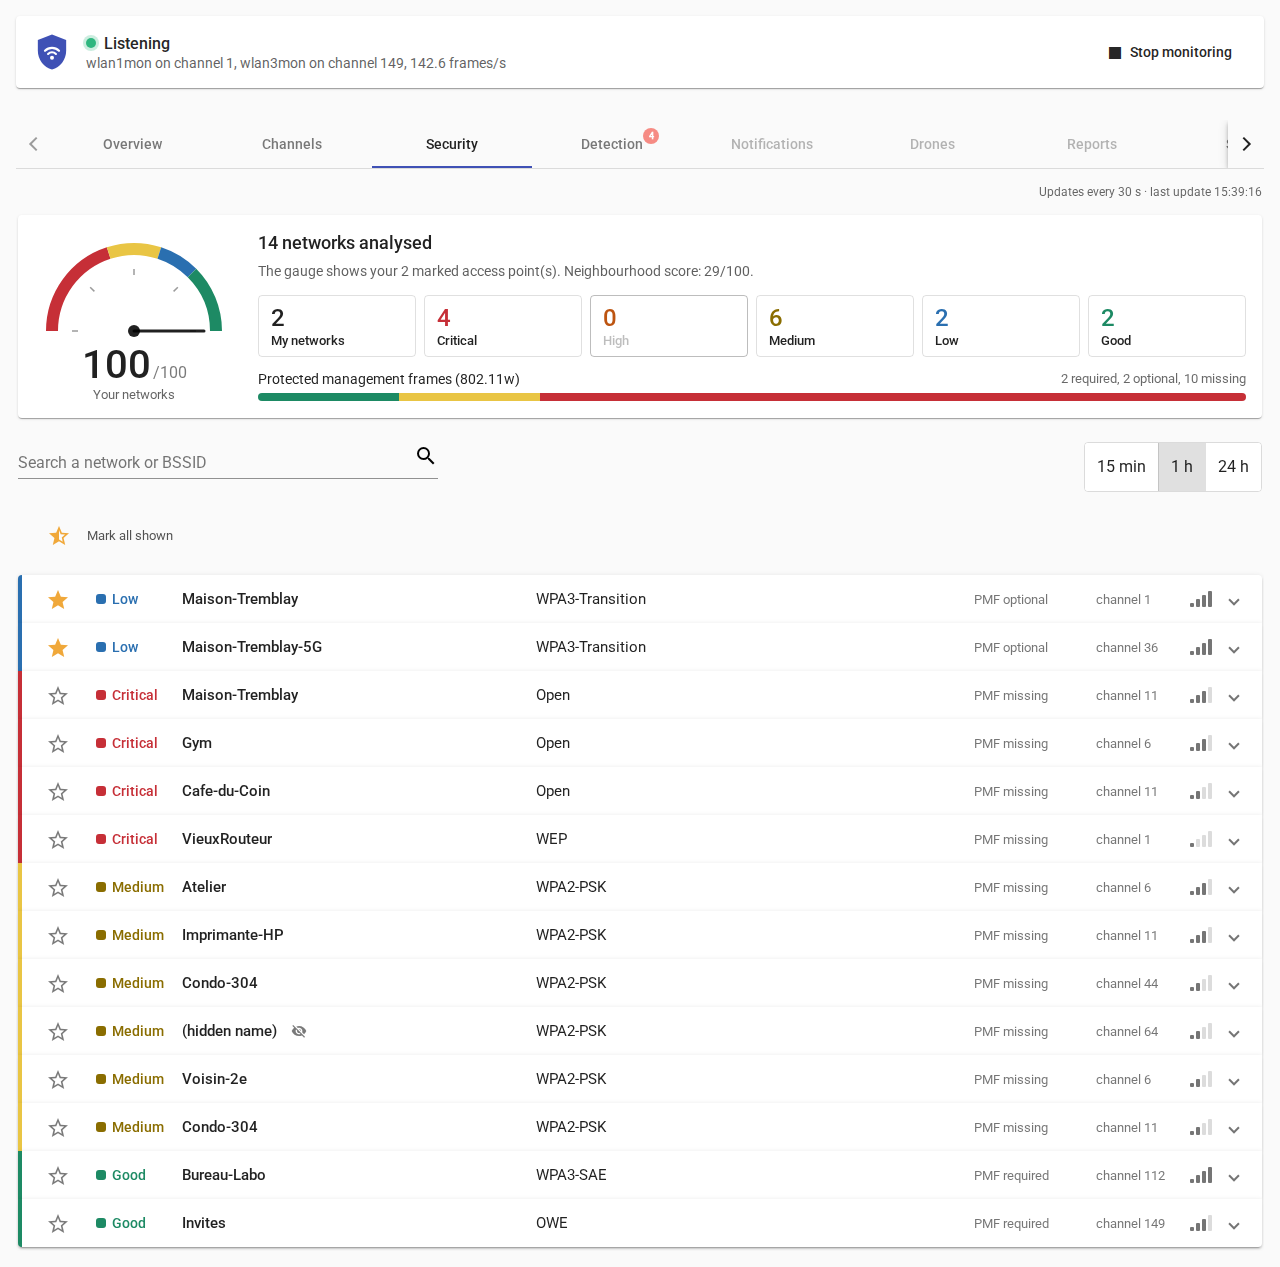
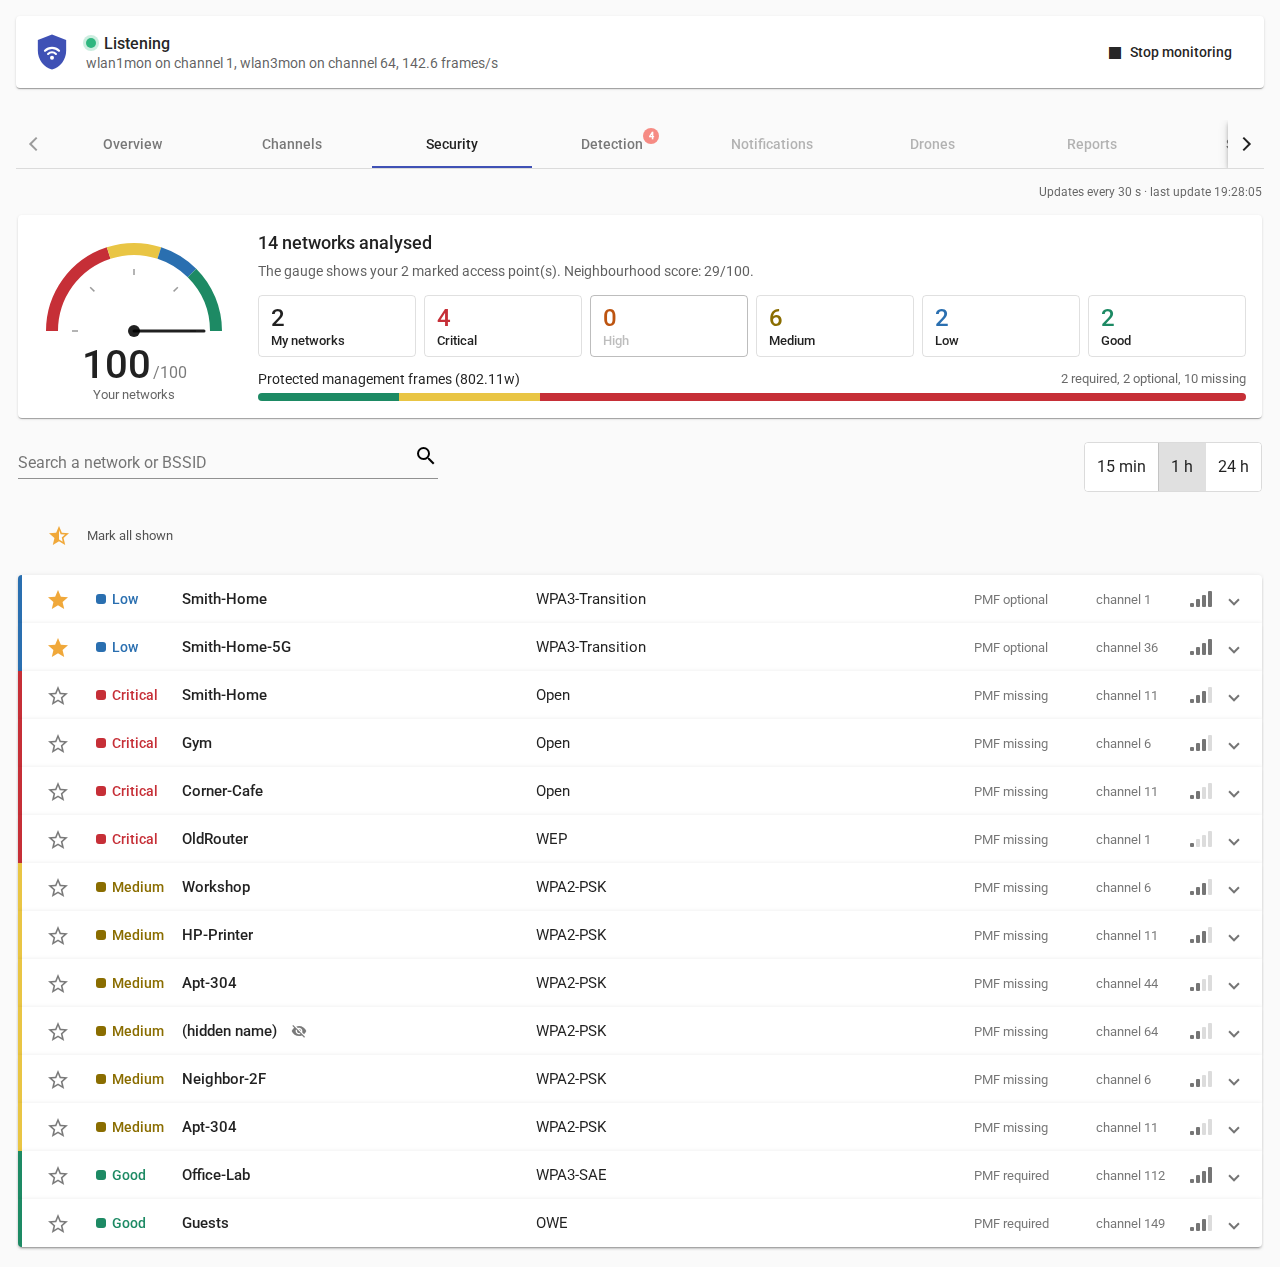
Demo and screenshots: English network names
Claude-Session: https://claude.ai/code/session_01Dyty2cSvxpgAPnk7cKjyN4

diff --git a/tools/demo_server.py b/tools/demo_server.py
@@ -31,18 +31,18 @@ random.seed(7)
 
 # Fictional networks: (bssid, ssid, channel, security, rssi)
 NETWORKS = [
-    ('02:10:00:00:00:01', 'Maison-Tremblay', 1, 'transition', -42),
-    ('02:10:00:00:00:02', 'Maison-Tremblay-5G', 36, 'transition', -48),
-    ('02:10:00:00:00:03', 'Atelier', 6, 'wpa2', -61),
-    ('02:10:00:00:00:04', 'Cafe-du-Coin', 11, 'open', -74),
-    ('02:10:00:00:00:05', 'Bureau-Labo', 112, 'wpa3', -55),
-    ('02:10:00:00:00:06', 'Voisin-2e', 6, 'wpa2', -80),
-    ('02:10:00:00:00:07', 'Imprimante-HP', 11, 'wpa2-wps', -69),
-    ('02:10:00:00:00:08', 'VieuxRouteur', 1, 'wep', -83),
-    ('02:10:00:00:00:09', 'Invites', 149, 'owe', -66),
+    ('02:10:00:00:00:01', 'Smith-Home', 1, 'transition', -42),
+    ('02:10:00:00:00:02', 'Smith-Home-5G', 36, 'transition', -48),
+    ('02:10:00:00:00:03', 'Workshop', 6, 'wpa2', -61),
+    ('02:10:00:00:00:04', 'Corner-Cafe', 11, 'open', -74),
+    ('02:10:00:00:00:05', 'Office-Lab', 112, 'wpa3', -55),
+    ('02:10:00:00:00:06', 'Neighbor-2F', 6, 'wpa2', -80),
+    ('02:10:00:00:00:07', 'HP-Printer', 11, 'wpa2-wps', -69),
+    ('02:10:00:00:00:08', 'OldRouter', 1, 'wep', -83),
+    ('02:10:00:00:00:09', 'Guests', 149, 'owe', -66),
     ('02:10:00:00:00:0a', '', 64, 'wpa2', -77),            # hidden
-    ('02:10:00:00:00:0b', 'Condo-304', 44, 'wpa2', -71),
-    ('02:10:00:00:00:0c', 'Condo-304', 11, 'wpa2', -79),
+    ('02:10:00:00:00:0b', 'Apt-304', 44, 'wpa2', -71),
+    ('02:10:00:00:00:0c', 'Apt-304', 11, 'wpa2', -79),
 ]
 
 SUITE = {'psk': 2, 'sae': 8, 'owe': 18}
@@ -91,9 +91,9 @@ def build_capture(path, start, end, attacks=False):
         frames.append((t + 0.5, radiotap(freq(6), -60) + probe_req('02:30:00:00:00:01', 'Hotel-Lobby')))
         t += 10
     if attacks:
-        # An open copy of "Maison-Tremblay" on another channel
+        # An open copy of "Smith-Home" on another channel
         for j in range(8):
-            frames.append((end - 400 + j * 0.5, radiotap(freq(11), -58) + beacon('0a:66:00:00:00:09', 'Maison-Tremblay', 11, 'open')))
+            frames.append((end - 400 + j * 0.5, radiotap(freq(11), -58) + beacon('0a:66:00:00:00:09', 'Smith-Home', 11, 'open')))
         # Deauthentication bursts: on a neighbour, then on your network
         for j in range(40):
             frames.append((end - 300 + j * 0.05, radiotap(freq(6), -58) + deauth('02:10:00:00:00:03', '02:20:00:00:00:05')))
@@ -122,7 +122,7 @@ def prepare(tmp):
     build_capture(pcap, now - 1200, now - 600)
     subprocess.run([sys.executable, m.ENGINE, '--pcap', pcap, '--db', m.DB_PATH], check=True,
                    stdout=subprocess.DEVNULL)
-    # Mark the two access points of "Maison-Tremblay" as the user's own
+    # Mark the two access points of "Smith-Home" as the user's own
     import mynets
     import store
     conn = store.connect(m.DB_PATH)
